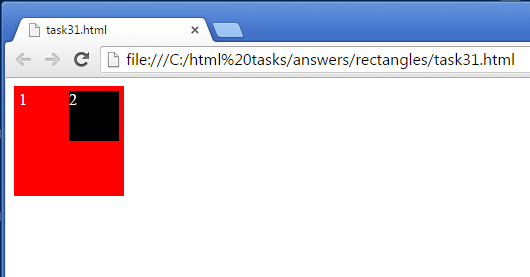
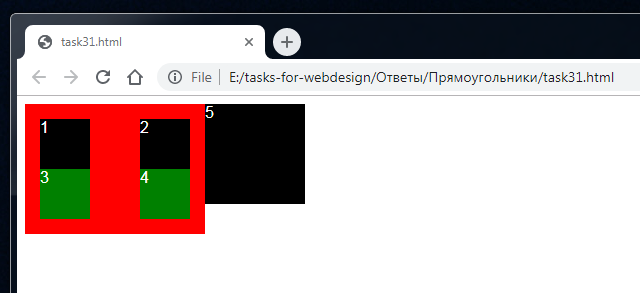
rework rectangles

diff --git a/Ответы/Прямоугольники/task35.html b/Ответы/Прямоугольники/task35.html
@@ -1,11 +1,17 @@
 <html>
-<head>
-</head>
-<body>
-	<div style="background-color:red;width:150px;height:150px;color:white;margin:0px auto 0px auto;">1
-		<div style="background-color:black;width:100px;height:100px;color:white;margin:0px auto 0px auto;">2
-			<div style="background-color:red;width:50px;height:50px;color:white;margin:0px auto 0px auto;">3</div>
+	<head>
+	</head>
+	<body>
+		<div style="background-color:red;float:left;width:200px;height:200px;color:white;">1</div>
+		<div style="float:left;background-color:green;padding:10px;">
+			<div style="background-color:black;width:90px;height:90px;color:white;">2</div>
+			<div style="background-color:red;width:90px;height:90px;color:white;">3</div>
 		</div>
-	</div>
-</body>
+		<div style="float:left">
+			<div style="background-color:black;width:50px;height:50px;color:white;">4</div>
+			<div style="background-color:red;margin:10px;width:30px;height:35px;color:white;">5</div>
+			<div style="background-color:black;margin:10px;width:30px;height:35px;color:white;">6</div>
+			<div style="background-color:red;width:50px;height:50px;color:white;">7</div>
+		</div>
+	</body>
 </html>

diff --git a/Ответы/Прямоугольники/task33.html b/Ответы/Прямоугольники/task33.html
@@ -1,13 +1,11 @@
 <html>
-<head>
-</head>
-<body>
-	<div style="background-color:red;float:left;width:300px;height:150px;color:white;padding:5px;">1
-		<div style="background-color:black;float:right;width:50px;height:50px;color:white;">2</div>
-		<div style="background-color:black;float:right;width:50px;height:50px;color:white;">3</div>
-		<div style="background-color:black;float:right;width:50px;height:50px;color:white;">4</div>
-		<div style="background-color:black;float:right;width:50px;height:50px;color:white;">5</div>
-		<div style="background-color:black;float:right;width:50px;height:50px;color:white;">6</div>
-	</div>
-</body>
+	<head>
+	</head>
+	<body>
+		<div style="background-color:red;float:left;width:120px;height:120px;color:white;">1</div>
+		<div style="float:left;background-color:green;padding:10px;">
+			<div style="background-color:black;width:50px;height:50px;color:white;">2</div>
+			<div style="background-color:red;width:50px;height:50px;color:white;">3</div>
+		</div>
+	</body>
 </html>

diff --git a/Ответы/Прямоугольники/task37.html b/Ответы/Прямоугольники/task37.html
@@ -1,0 +1,23 @@
+<html>
+	<head>
+	</head>
+	<body>
+		<div style="background-color:red;float:left;width:200px;height:200px;color:white;">1</div>
+		<div style="float:left;height:200px;">
+			<div style="background-color:green;padding:10px;height:80px;">
+				<div style="background-color:black;width:80px;height:80px;color:white;float:left;">2</div>
+				<div style="float:left">
+					<div style="background-color:black;margin:10px;width:30px;height:30px;color:white;">3</div>
+					<div style="background-color:red;width:50px;height:30px;color:white;">4</div>
+				</div>
+			</div>
+			<div style="padding:10px;height:80px;">
+				<div style="background-color:red;width:80px;height:80px;color:white;float:left;">5</div>
+				<div style="float:left">
+					<div style="background-color:red;margin:10px;width:30px;height:30px;color:white;">6</div>
+					<div style="background-color:black;width:50px;height:30px;color:white;">7</div>
+				</div>
+			</div>
+		</div>
+	</body>
+</html>

diff --git a/Ответы/Прямоугольники/task34.html b/Ответы/Прямоугольники/task34.html
@@ -1,12 +1,11 @@
 <html>
-<head>
-</head>
-<body>
-	<div style="background-color:red;float:left;width:300px;height:150px;color:white;">1
-		<div style="background-color:black;float:right;width:50px;height:50px;color:white;margin:5px;">2</div>
-		<div style="background-color:black;float:right;width:50px;height:50px;color:white;margin:5px;">3</div>
-		<div style="background-color:black;float:right;width:50px;height:50px;color:white;margin:5px;">4</div>
-		<div style="background-color:black;float:right;width:50px;height:50px;color:white;margin:5px;">5</div>
-	</div>
-</body>
+	<head>
+	</head>
+	<body>
+		<div style="background-color:red;float:left;width:130px;height:130px;color:white;">1</div>
+		<div style="float:left;background-color:green;">
+			<div style="background-color:black;width:50px;height:50px;color:white;margin:10px;">2</div>
+			<div style="background-color:red;width:50px;height:50px;color:white;margin:10px;">3</div>
+		</div>
+	</body>
 </html>

diff --git a/Ответы/Прямоугольники/task31.html b/Ответы/Прямоугольники/task31.html
@@ -2,8 +2,12 @@
 	<head>
 	</head>
 	<body>
-		<div style="background-color:red;float:left;width:100px;height:100px;color:white;padding:5px;">1
-			<div style="background-color:black;float:right;width:50px;height:50px;color:white;">2</div>
+		<div style="background-color:red;float:left;width:150px;height:100px;color:white;padding:15px;">
+			<div style="background-color:black;width:50px;height:50px;color:white;float:left;">1</div>
+			<div style="background-color:black;width:50px;height:50px;color:white;float:right;">2</div>
+			<div style="background-color:green;width:50px;height:50px;color:white;clear:left;float:left;">3</div>
+			<div style="background-color:green;width:50px;height:50px;color:white;float:right;">4</div>
 		</div>
+		<div style="background-color:black;width:100px;height:100px;color:white;float:left;">5</div>
 	</body>
 </html>

diff --git a/Ответы/Прямоугольники/task26.html b/Ответы/Прямоугольники/task26.html
@@ -1,0 +1,20 @@
+<html>
+	<head>
+	</head>
+	<body>
+		<div style="background-color:red;width:150px;height:50px;color:white;">1</div>
+		<div style="float:left">
+			<div style="background-color:green;width:50px;height:50px;color:white;">2</div>
+			<div style="background-color:red;width:50px;height:50px;color:white;">3</div>
+			<div style="background-color:black;width:50px;height:50px;color:white;">4</div>
+		</div>
+		<div style="float:left">
+			<div style="background-color:black;width:50px;height:100px;color:white;">5</div>
+			<div style="background-color:green;width:50px;height:50px;color:white;">6</div>
+		</div>
+		<div style="float:left">
+			<div style="background-color:green;width:50px;height:50px;color:white;">7</div>
+			<div style="background-color:red;width:50px;height:100px;color:white;">8</div>
+		</div>
+	</body>
+</html>

diff --git a/Ответы/Прямоугольники/task32.html b/Ответы/Прямоугольники/task32.html
@@ -2,10 +2,9 @@
 <head>
 </head>
 <body>
-	<div style="background-color:red;float:left;width:150px;height:150px;color:white;padding:5px;">1
-		<div style="background-color:black;float:right;width:100px;height:100px;color:white;">2
-			<div style="background-color:red;float:left;width:50px;height:50px;color:white;margin:5px;">3</div>
-		</div>
-	</div>
+	<div style="background-color:red;width:70px;height:70px;color:white;float:left;margin:15px;">1</div>
+	<div style="background-color:black;width:100px;height:100px;color:white;float:left;">2</div>
+	<div style="background-color:black;width:100px;height:100px;color:white;float:left;clear:left;">3</div>
+	<div style="background-color:red;width:70px;height:70px;color:white;float:left;margin:15px">4</div>
 </body>
 </html>

diff --git a/Ответы/Прямоугольники/task27.html b/Ответы/Прямоугольники/task27.html
@@ -1,0 +1,20 @@
+<html>
+	<head>
+	</head>
+	<body>
+		<div style="float:left;">
+			<div style="background-color:red;width:100px;height:50px;color:white;">1</div>
+			<div>
+				<div style="float:left;">
+					<div style="background-color:black;width:50px;height:50px;color:white;">2</div>
+					<div style="background-color:red;width:50px;height:50px;color:white;">3</div>
+				</div>
+				<div style="float:left;background-color:green;width:50px;height:100px;color:white;">4</div>
+			</div>
+		</div>
+		<div style="float:left;">
+			<div style="background-color:black;width:50px;height:100px;color:white;">5</div>
+			<div style="background-color:red;width:50px;height:50px;color:white;">6</div>
+		</div>
+	</body>
+</html>

diff --git a/Ответы/Прямоугольники/task36.html b/Ответы/Прямоугольники/task36.html
@@ -1,0 +1,17 @@
+<html>
+	<head>
+	</head>
+	<body>
+		<div style="background-color:green;float:left;padding:10px;">
+			<div style="float:left;">
+				<div style="background-color:black;width:50px;height:50px;color:white;">1</div>
+				<div style="background-color:red;width:50px;height:50px;color:white;">2</div>
+			</div>
+			<div style="background-color:black;float:left;width:80px;height:80px;color:white;margin:10px;">3</div>
+			<div style="float:left;">
+				<div style="background-color:red;width:50px;height:50px;color:white;">4</div>
+				<div style="background-color:black;width:50px;height:50px;color:white;">5</div>
+			</div>
+		</div>
+	</body>
+</html>

diff --git a/Ответы/Прямоугольники/task25.html b/Ответы/Прямоугольники/task25.html
@@ -1,0 +1,15 @@
+<html>
+	<head>
+	</head>
+	<body>
+		<div style="float:left;background-color:red;width:150px;height:150px;color:white;">1</div>
+		<div style="float:left">
+			<div style="background-color:green;width:50px;height:100px;color:white;">2</div>
+			<div style="background-color:black;width:50px;height:50px;color:white;">3</div>
+		</div>
+		<div style="float:left">
+			<div style="background-color:black;width:50px;height:50px;color:white;">4</div>
+			<div style="background-color:red;width:50px;height:100px;color:white;">5</div>
+		</div>
+	</body>
+</html>

diff --git a/Ответы/Прямоугольники/task5.html b/Ответы/Прямоугольники/task5.html
@@ -1,0 +1,11 @@
+<html>
+	<head>
+	</head>
+	<body>
+		<div style="background-color:red;width:150px;height:50px;color:white;">1</div>
+		<div style="background-color:black;width:50px;height:50px;color:white;float:left;">2</div>
+		<div style="background-color:green;width:50px;height:50px;color:white;float:left;">3</div>
+		<div style="background-color:black;width:50px;height:50px;color:white;float:left;">4</div>
+		<div style="background-color:red;width:150px;height:50px;color:white;clear:left;">5</div>
+	</body>
+</html>

diff --git a/Ответы/Прямоугольники/task24.html b/Ответы/Прямоугольники/task24.html
@@ -1,0 +1,12 @@
+<html>
+	<head>
+	</head>
+	<body>
+		<div style="float:left;background-color:green;width:50px;height:150px;color:white;">1</div>
+		<div style="float:left">
+			<div style="background-color:red;width:50px;height:50px;color:white;">2</div>
+			<div style="background-color:black;width:50px;height:50px;color:white;">3</div>
+			<div style="background-color:red;width:50px;height:50px;color:white;">4</div>
+		</div>
+	</body>
+</html>
